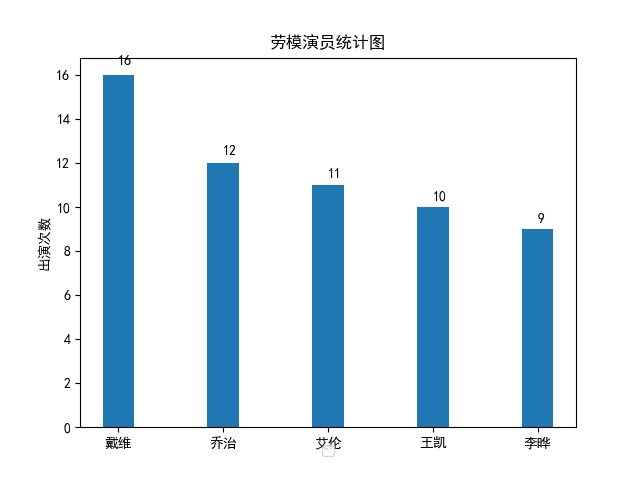
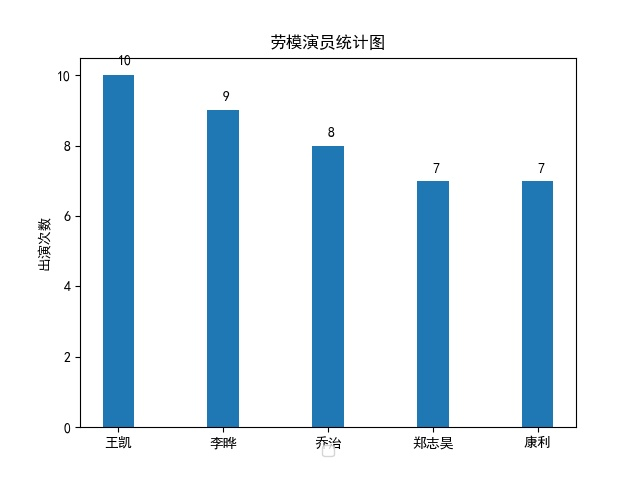
fix Actor and Cloud bug

diff --git a/Wordcloud.html b/Wordcloud.html
@@ -39,12 +39,12 @@ window.setImmediate||(window.setImmediate=function(){return window.msSetImmediat
 </script>
 </head>
 <body>
-    <div id="1732345cebb64648a0bf125ee67ec958" style="width:720px;height:530px;"></div>
+    <div id="011c9823b4bf490b9f2a0f5a69c90c0f" style="width:720px;height:530px;"></div>
     <script type="text/javascript">
 
-var myChart_1732345cebb64648a0bf125ee67ec958 = echarts.init(document.getElementById('1732345cebb64648a0bf125ee67ec958'), 'light', {renderer: 'canvas'});
+var myChart_011c9823b4bf490b9f2a0f5a69c90c0f = echarts.init(document.getElementById('011c9823b4bf490b9f2a0f5a69c90c0f'), 'light', {renderer: 'canvas'});
 
-var option_1732345cebb64648a0bf125ee67ec958 = {
+var option_011c9823b4bf490b9f2a0f5a69c90c0f = {
     "title": [
         {
             "left": "auto",
@@ -77,7 +77,7 @@ var option_1732345cebb64648a0bf125ee67ec958 = {
             }
         }
     },
-    "series_id": 1212549,
+    "series_id": 5448755,
     "tooltip": {
         "trigger": "item",
         "triggerOn": "mousemove|click",
@@ -108,92 +108,92 @@ var option_1732345cebb64648a0bf125ee67ec958 = {
             ],
             "data": [
                 {
-                    "name": "\u5e78\u798f\u9a6c\u4e0a\u6765",
+                    "name": "\u7ea2\u6d77\u884c\u52a8",
                     "value": 50,
                     "textStyle": {
                         "normal": {
-                            "color": "rgb(96,138,23)"
+                            "color": "rgb(86,63,44)"
                         }
                     }
                 },
                 {
-                    "name": "\u9a6c\u620f\u4e4b\u738b",
+                    "name": "\u5510\u4eba\u8857\u63a2\u68482",
                     "value": 48,
                     "textStyle": {
                         "normal": {
-                            "color": "rgb(72,43,122)"
+                            "color": "rgb(148,18,132)"
                         }
                     }
                 },
                 {
-                    "name": "\u795e\u79d8\u4e16\u754c\u5386\u9669\u8bb04",
+                    "name": "\u6211\u4e0d\u662f\u836f\u795e",
                     "value": 46,
                     "textStyle": {
                         "normal": {
-                            "color": "rgb(68,78,66)"
+                            "color": "rgb(80,148,155)"
                         }
                     }
                 },
                 {
-                    "name": "\u6c34\u5f62\u7269\u8bed",
+                    "name": "\u897f\u8679\u5e02\u9996\u5bcc",
                     "value": 44,
                     "textStyle": {
                         "normal": {
-                            "color": "rgb(13,4,148)"
+                            "color": "rgb(134,114,106)"
                         }
                     }
                 },
                 {
-                    "name": "\u6e38\u4fa0\u7d22\u7f57\uff1a\u661f\u7403\u5927\u6218\u5916\u4f20",
+                    "name": "\u590d\u4ec7\u8005\u8054\u76df3\uff1a\u65e0\u9650\u6218\u4e89",
                     "value": 42,
                     "textStyle": {
                         "normal": {
-                            "color": "rgb(21,44,14)"
+                            "color": "rgb(57,33,9)"
                         }
                     }
                 },
                 {
-                    "name": "21\u514b\u62c9",
+                    "name": "\u6349\u5996\u8bb02",
                     "value": 40,
                     "textStyle": {
                         "normal": {
-                            "color": "rgb(49,146,90)"
+                            "color": "rgb(22,36,50)"
                         }
                     }
                 },
                 {
-                    "name": "\u80e1\u6843\u5939\u5b50\u548c\u56db\u4e2a\u738b\u56fd",
+                    "name": "\u6bd2\u6db2\uff1a\u81f4\u547d\u5b88\u62a4\u8005",
                     "value": 38,
                     "textStyle": {
                         "normal": {
-                            "color": "rgb(98,85,77)"
+                            "color": "rgb(136,152,149)"
                         }
                     }
                 },
                 {
-                    "name": "\u98ce\u8bed\u5492",
+                    "name": "\u4f8f\u7f57\u7eaa\u4e16\u754c2",
                     "value": 36,
                     "textStyle": {
                         "normal": {
-                            "color": "rgb(147,38,92)"
+                            "color": "rgb(112,115,74)"
                         }
                     }
                 },
                 {
-                    "name": "\u963f\u5c14\u6cd5\uff1a\u72fc\u4f34\u5f52\u9014",
+                    "name": "\u6d77\u738b",
                     "value": 34,
                     "textStyle": {
                         "normal": {
-                            "color": "rgb(156,93,96)"
+                            "color": "rgb(136,28,137)"
                         }
                     }
                 },
                 {
-                    "name": "\u540d\u4fa6\u63a2\u67ef\u5357\uff1a\u96f6\u7684\u6267\u884c\u4eba",
+                    "name": "\u5934\u53f7\u73a9\u5bb6",
                     "value": 32,
                     "textStyle": {
                         "normal": {
-                            "color": "rgb(90,140,8)"
+                            "color": "rgb(149,41,122)"
                         }
                     }
                 }
@@ -242,7 +242,7 @@ var option_1732345cebb64648a0bf125ee67ec958 = {
         "#f6f5ec"
     ]
 };
-myChart_1732345cebb64648a0bf125ee67ec958.setOption(option_1732345cebb64648a0bf125ee67ec958);
+myChart_011c9823b4bf490b9f2a0f5a69c90c0f.setOption(option_011c9823b4bf490b9f2a0f5a69c90c0f);
 
 </script>
 </body>

diff --git a/Top_actor.html b/Top_actor.html
@@ -29,12 +29,12 @@
 </script>
 </head>
 <body>
-    <div id="47a78a6717b848a5b4736acacf088cef" style="width:600px;height:450px;"></div>
+    <div id="7b0cbb9bd1c643528e13cdca896a9357" style="width:600px;height:450px;"></div>
     <script type="text/javascript">
 
-var myChart_47a78a6717b848a5b4736acacf088cef = echarts.init(document.getElementById('47a78a6717b848a5b4736acacf088cef'), 'light', {renderer: 'canvas'});
+var myChart_7b0cbb9bd1c643528e13cdca896a9357 = echarts.init(document.getElementById('7b0cbb9bd1c643528e13cdca896a9357'), 'light', {renderer: 'canvas'});
 
-var option_47a78a6717b848a5b4736acacf088cef = {
+var option_7b0cbb9bd1c643528e13cdca896a9357 = {
     "title": [
         {
             "text": "\u52b3\u6a21\u6f14\u5458",
@@ -68,7 +68,7 @@ var option_47a78a6717b848a5b4736acacf088cef = {
             }
         }
     },
-    "series_id": 5947506,
+    "series_id": 6794526,
     "tooltip": {
         "trigger": "item",
         "triggerOn": "mousemove|click",
@@ -87,11 +87,11 @@ var option_47a78a6717b848a5b4736acacf088cef = {
             "type": "bar",
             "name": "2018,5",
             "data": [
-                16,
-                12,
-                11,
                 10,
-                9
+                9,
+                8,
+                7,
+                7
             ],
             "barCategoryGap": "20%",
             "label": {
@@ -142,7 +142,7 @@ var option_47a78a6717b848a5b4736acacf088cef = {
             "markLine": {
                 "data": []
             },
-            "seriesId": 5947506
+            "seriesId": 6794526
         }
     ],
     "legend": [
@@ -192,11 +192,11 @@ var option_47a78a6717b848a5b4736acacf088cef = {
                 }
             },
             "data": [
-                "\u6234\u7ef4",
-                "\u4e54\u6cbb",
-                "\u827e\u4f26",
                 "\u738b\u51ef",
-                "\u674e\u6654"
+                "\u674e\u6654",
+                "\u4e54\u6cbb",
+                "\u90d1\u5fd7\u660a",
+                "\u5eb7\u5229"
             ]
         }
     ],
@@ -261,7 +261,7 @@ var option_47a78a6717b848a5b4736acacf088cef = {
         "#f6f5ec"
     ]
 };
-myChart_47a78a6717b848a5b4736acacf088cef.setOption(option_47a78a6717b848a5b4736acacf088cef);
+myChart_7b0cbb9bd1c643528e13cdca896a9357.setOption(option_7b0cbb9bd1c643528e13cdca896a9357);
 
 </script>
 </body>

diff --git a/Creat_Actor.py b/Creat_Actor.py
@@ -3,6 +3,7 @@ import  numpy as np
 import  pandas as pd
 import  matplotlib.pyplot as plt
 from pyecharts import Bar
+from collections import Counter
 from SE12_Crawler import *
 
 #解决中文显示问题
@@ -22,33 +23,32 @@ def draw_top_actor(year, number):
     actor_names = []
     for item in lst:
         temp = item['Actor'].split(',')
-        print(temp)
+        # print(temp)
         if temp == ['']: 
             continue
         actor_names.extend(item['Actor'].split(','))
-    actor_names = set(actor_names)
+    actor_names_set = set(actor_names)
     # print(actor_names)
     # 新建字典，按照出演数量排序
     
     dicted = {}
-    for actor in actor_names:
+    for actor in actor_names_set:
         dicted[actor] = 0
-    for item in lst:
-        for actor in actor_names:
-            if actor in item["Actor"]:
-                dicted[actor] = dicted[actor]+1
+    L = Counter(actor_names)
+    # print(L)
+    for i,j in L.items():
+        dicted[i] = j
     L = sorted(dicted.items(), key=lambda item:item[1], reverse=True)
 
     # print(L)
     names = []
     cnt = []
     for item in L:
-        print(item[0],item[1])
         names.append(item[0])
         cnt.append(item[1])
-        if(len(names) == int(number)):
+        # print(names,cnt)
+        if(len(names)==int(number)):
             break
-    
     bar = Bar("劳模演员",width=600,height=450)
     bar.add("%s,%d" % (year,number),names,cnt,mark_point=["max","min"])
     bar.render(path="Top_actor.html")

diff --git a/SearchSQL.py b/SearchSQL.py
@@ -12,10 +12,27 @@ def SearchActor(name):
     db = wrappedSQL("movie.db")
     searchValue = "Actor like '%"+str(name)+"%'"
     lst = db.SelData(Title='data', Value=searchValue)
-
     db.CloseDB()
     return lst
 
+def SearchSQL(name):
+    msg = []
+    lst = SearchMovie(name)
+    if lst != []:
+        for item in lst:
+            str0 = item['Movie']
+            str1 = '票房：'+item['BoxOffice']
+            str2 = '上映日期：'+item['Date']
+            str3 = '导演：'+item['Director']
+            str4 = '分类：'+item['Category']
+            str5 = '演员：'+item['Actor']
+            msg.extend([[str0,str1,str2,str3,str4,str5]])
+    else:
+        lst = SearchActor(name)
+        for item in lst:
+            msg.append([item['Movie']])
+    return msg
+
+
 if __name__ == "__main__":
-    print(SearchMovie('红海'))
-    print(SearchActor('吴京'))
+    print(SearchSQL('吴京'))

diff --git a/Creat_Wordcloud.py b/Creat_Wordcloud.py
@@ -19,13 +19,14 @@ def pick_data(year,num):
     print(lst)
     dicted = {}
     for item in lst:
-        dicted[item["Movie"]] = item["BoxOffice"]
-    L = sorted(dicted.items(), key=lambda item:item[1])
-    print(L)
+        dicted[item["Movie"]] = float(item["BoxOffice"])
+    L = sorted(dicted.items(), key=lambda item:item[1], reverse=True)
+    # print(L)
     data = []
     for i in range(num):
+        print(L[i][0])
         data.append(L[i][0])
-    db.CloseDB()
+    db.CloseDB() 
     return data
 
 
